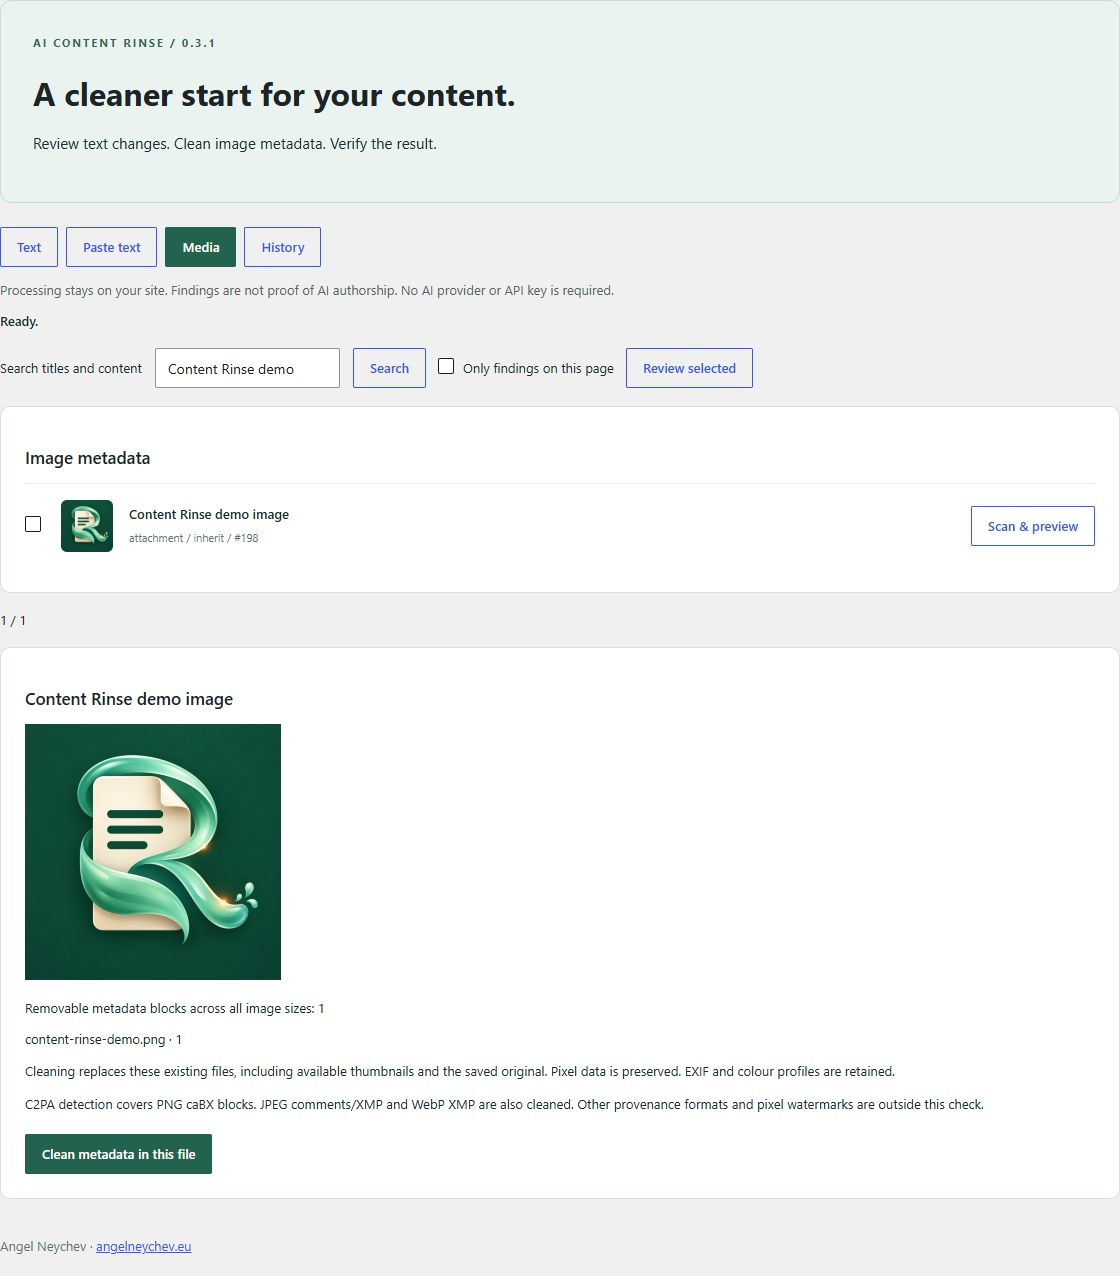
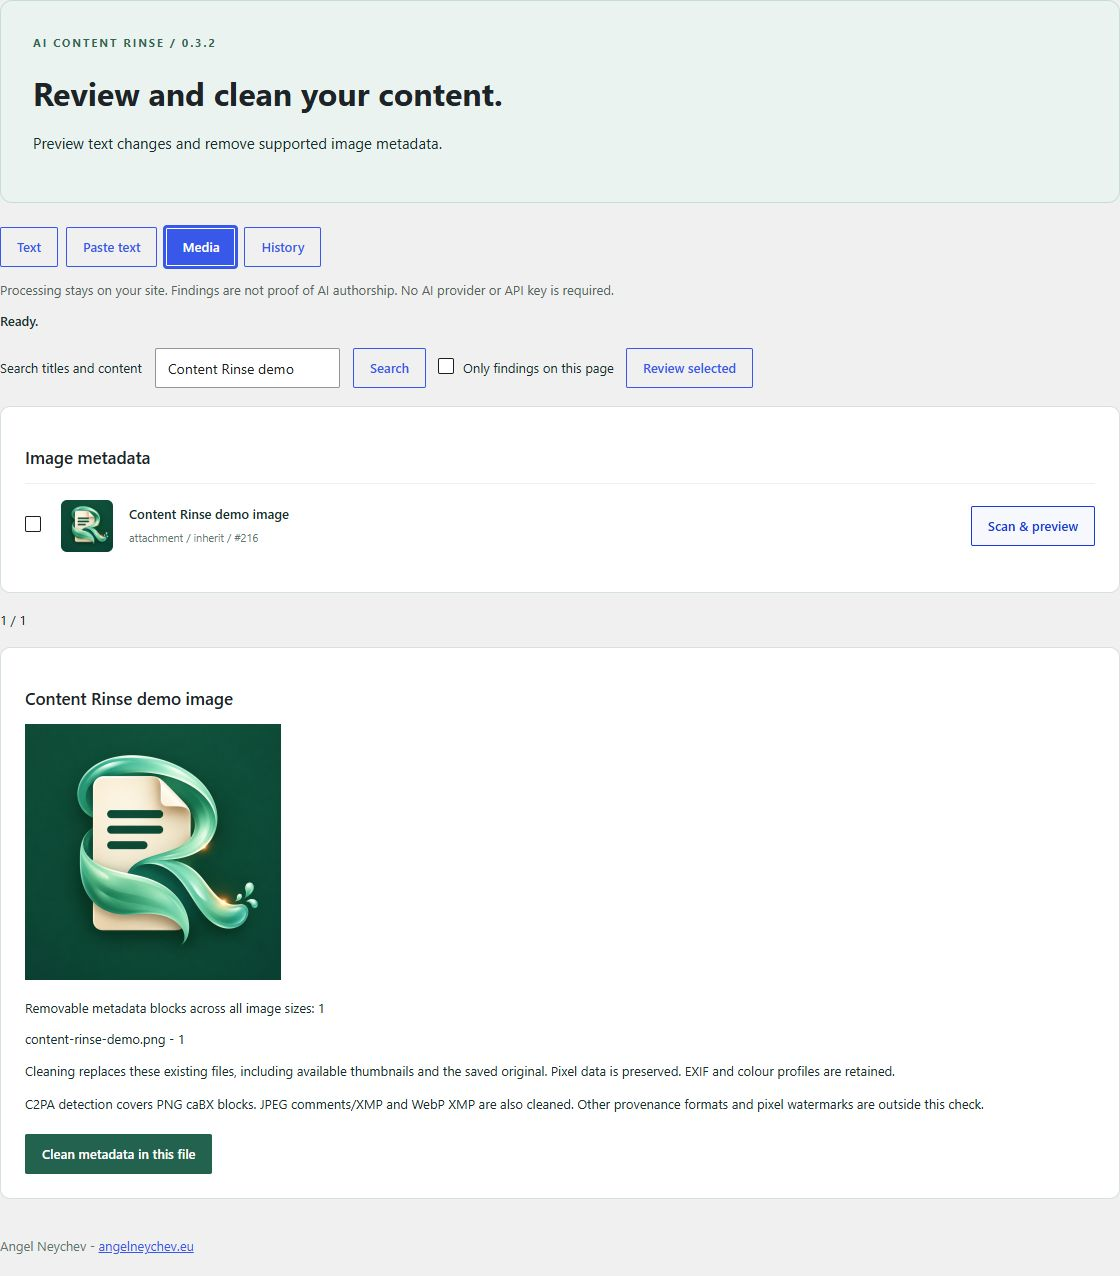
Use plain punctuation and consistent public copy in 0.3.2

Changed region(s): [[0.0312, 0.0611, 0.4688, 0.1223], [0.125, 0.1528, 0.2188, 0.2139], [0.0938, 0.9475, 0.1562, 1.0]]

diff --git a/assets/admin.js b/assets/admin.js
@@ -35,7 +35,7 @@
         busy = true;
         const disabled = Array.from(document.querySelectorAll('.aicr button, .aicr input, .aicr select'));
         disabled.forEach(node => { node.disabled = true; });
-        status.textContent = __('Working…', 'ai-content-rinse');
+        status.textContent = __('Working...', 'ai-content-rinse');
         try { await action(); status.textContent = __('Ready.', 'ai-content-rinse'); }
         catch (error) { status.textContent = error.message; }
         finally {
@@ -65,7 +65,7 @@
         for (const side of ['before', 'after']) {
             const column = el('div');
             const pre = el('pre');
-            column.append(el('h4', side === 'before' ? __('Before — changes in red', 'ai-content-rinse') : __('After — replacements in green', 'ai-content-rinse')));
+            column.append(el('h4', side === 'before' ? __('Before - changes in red', 'ai-content-rinse') : __('After - replacements in green', 'ai-content-rinse')));
             for (const segment of segments) {
                 if (!segment.label) { pre.append(document.createTextNode(segment[side])); continue; }
                 if (side === 'after' && !segment.after) continue;
@@ -73,7 +73,7 @@
                     ? (/[—–]/u.test(segment.before) ? segment.before : '⟦' + segment.label + '⟧')
                     : segment.after;
                 const mark = el('mark', visible, side === 'before' ? 'aicr-removed' : 'aicr-added');
-                mark.title = segment.label + ' · ' + (side === 'before' ? __('Removed during cleanup', 'ai-content-rinse') : __('Inserted during cleanup', 'ai-content-rinse'));
+                mark.title = segment.label + ' - ' + (side === 'before' ? __('Removed during cleanup', 'ai-content-rinse') : __('Inserted during cleanup', 'ai-content-rinse'));
                 pre.append(mark);
             }
             column.append(pre);
@@ -85,7 +85,7 @@
         const labels = { post_title: __('Title', 'ai-content-rinse'), post_content: __('Content', 'ai-content-rinse'), post_excerpt: __('Excerpt', 'ai-content-rinse') };
         for (const key of Object.keys(labels)) {
             const count = Object.values(result.counts[key]).reduce((a, b) => a + b, 0);
-            if (count) target.append(el('h3', labels[key] + ' · ' + count), comparison(result.segments[key]));
+            if (count) target.append(el('h3', labels[key] + ' - ' + count), comparison(result.segments[key]));
         }
         target.append(el('p', result.changed
             ? __('Only these text changes will be saved. A text recovery record is stored first.', 'ai-content-rinse')
@@ -94,13 +94,13 @@
     function mediaDetails(result, target) {
         target.append(el('p', __('Removable metadata blocks across all image sizes:', 'ai-content-rinse') + ' ' + result.removed));
         const files = el('ul');
-        for (const file of result.files) files.append(el('li', file.name + ' · ' + file.removed + (file.hints.length ? ' · ' + file.hints.join('; ') : '')));
+        for (const file of result.files) files.append(el('li', file.name + ' - ' + file.removed + (file.hints.length ? ' - ' + file.hints.join('; ') : '')));
         target.append(files, el('p', __('Cleaning replaces these existing files, including available thumbnails and the saved original. Pixel data is preserved. EXIF and colour profiles are retained.', 'ai-content-rinse')));
         target.append(el('p', __('C2PA detection covers PNG caBX blocks. JPEG comments/XMP and WebP XMP are also cleaned. Other provenance formats and pixel watermarks are outside this check.', 'ai-content-rinse')));
     }
     function mediaOutcome(saved, target) {
         target.append(el('h3', saved.ok ? __('Cleaned and verified.', 'ai-content-rinse') : __('Cleaning was not completed for every file.', 'ai-content-rinse')));
-        for (const file of saved.files) target.append(el('p', file.name + ' · ' + __('Removed:', 'ai-content-rinse') + ' ' + file.removed + ' · ' + __('Remaining supported blocks:', 'ai-content-rinse') + ' ' + file.remaining));
+        for (const file of saved.files) target.append(el('p', file.name + ' - ' + __('Removed:', 'ai-content-rinse') + ' ' + file.removed + ' - ' + __('Remaining supported blocks:', 'ai-content-rinse') + ' ' + file.remaining));
         for (const error of saved.errors) target.append(el('p', error.name + ': ' + error.message, 'aicr-error'));
         target.append(el('p', __('Remaining supported blocks across all files:', 'ai-content-rinse') + ' ' + (saved.remaining === null ? __('Could not verify every file.', 'ai-content-rinse') : saved.remaining)));
         if (saved.provenance.detected) target.append(el('p', saved.provenance.hints.join('; ')));
@@ -187,7 +187,7 @@
         const input = el('textarea'); input.id = 'aicr-paste'; input.rows = 10;
         const formatLabel = el('label', __('Input format', 'ai-content-rinse')); formatLabel.htmlFor = 'aicr-format';
         const format = el('select'); format.id = 'aicr-format';
-        for (const [value, title] of [['plain', __('Plain text', 'ai-content-rinse')], ['html', __('WordPress / HTML — preserve markup and code', 'ai-content-rinse')]]) {
+        for (const [value, title] of [['plain', __('Plain text', 'ai-content-rinse')], ['html', __('WordPress / HTML - preserve markup and code', 'ai-content-rinse')]]) {
             const option = el('option', title); option.value = value; format.append(option);
         }
         list.append(label, input, formatLabel, format, button(__('Preview cleanup', 'ai-content-rinse'), async () => {
@@ -225,7 +225,7 @@
         pager.replaceChildren();
         if (mode === 'paste') { pasteWorkspace(); return; }
         renderControls();
-        list.replaceChildren(el('p', __('Loading…', 'ai-content-rinse')));
+        list.replaceChildren(el('p', __('Loading...', 'ai-content-rinse')));
         const data = await api('items?mode=' + mode + '&page=' + page + '&search=' + encodeURIComponent(search));
         if (stamp !== generation) return;
         list.replaceChildren(el('h2', mode === 'media' ? __('Image metadata', 'ai-content-rinse') : mode === 'history' ? __('Text recovery copies', 'ai-content-rinse') : __('Posts & pages', 'ai-content-rinse')));

diff --git a/ai-content-rinse.php b/ai-content-rinse.php
@@ -1,8 +1,8 @@
 <?php
 /**
- * Plugin Name: AI Content Rinse — Text & Metadata Cleaner
+ * Plugin Name: AI Content Rinse - Text & Metadata Cleaner
  * Description: Review text cleanup and remove supported image metadata in place. Preview exact changes and verify cleaned files.
- * Version: 0.3.1
+ * Version: 0.3.2
  * Requires at least: 6.5
  * Requires PHP: 8.1
  * Author: Angel Neychev
@@ -32,8 +32,8 @@ function aicr_assets( $hook ) {
 	if ( 'tools_page_ai-content-rinse' !== $hook ) {
 		return;
 	}
-	wp_enqueue_style( 'aicr-admin', plugins_url( 'assets/admin.css', __FILE__ ), array(), '0.3.1' );
-	wp_enqueue_script( 'aicr-admin', plugins_url( 'assets/admin.js', __FILE__ ), array( 'wp-i18n' ), '0.3.1', true );
+	wp_enqueue_style( 'aicr-admin', plugins_url( 'assets/admin.css', __FILE__ ), array(), '0.3.2' );
+	wp_enqueue_script( 'aicr-admin', plugins_url( 'assets/admin.js', __FILE__ ), array( 'wp-i18n' ), '0.3.2', true );
 	wp_set_script_translations( 'aicr-admin', 'ai-content-rinse' );
 	// Use the query-string REST transport so the workspace also works when
 	// Apache URL rewriting is unavailable on a local XAMPP installation.
@@ -45,8 +45,8 @@ function aicr_assets( $hook ) {
 function aicr_page() {
 	?>
 	<div class="wrap aicr">
-		<header><span class="aicr-eyebrow">AI CONTENT RINSE / 0.3.1</span><h1><?php esc_html_e( 'A cleaner start for your content.', 'ai-content-rinse' ); ?></h1>
-		<p><?php esc_html_e( 'Review text changes. Clean image metadata. Verify the result.', 'ai-content-rinse' ); ?></p></header>
+		<header><span class="aicr-eyebrow">AI CONTENT RINSE / 0.3.2</span><h1><?php esc_html_e( 'Review and clean your content.', 'ai-content-rinse' ); ?></h1>
+		<p><?php esc_html_e( 'Preview text changes and remove supported image metadata.', 'ai-content-rinse' ); ?></p></header>
 		<nav aria-label="<?php esc_attr_e( 'Workspace', 'ai-content-rinse' ); ?>">
 			<button class="button button-primary" data-tab="text"><?php esc_html_e( 'Text', 'ai-content-rinse' ); ?></button>
 			<button class="button" data-tab="paste"><?php esc_html_e( 'Paste text', 'ai-content-rinse' ); ?></button>
@@ -59,7 +59,7 @@ function aicr_page() {
 		<section id="aicr-list"></section>
 		<div id="aicr-pager"></div>
 		<section id="aicr-preview" tabindex="-1" hidden></section>
-		<footer>Angel Neychev · <a href="https://angelneychev.eu">angelneychev.eu</a></footer>
+		<footer>Angel Neychev - <a href="https://angelneychev.eu">angelneychev.eu</a></footer>
 	</div>
 	<?php
 }

diff --git a/includes.php b/includes.php
@@ -50,32 +50,32 @@ function aicr_clean_text( $text, $plain = false ) {
 		"\u{200B}" => 'U+200B',
 		"\u{200E}" => 'U+200E',
 		"\u{200F}" => 'U+200F',
-		"\u{202A}" => 'U+202A–U+202E',
-		"\u{202B}" => 'U+202A–U+202E',
-		"\u{202C}" => 'U+202A–U+202E',
-		"\u{202D}" => 'U+202A–U+202E',
-		"\u{202E}" => 'U+202A–U+202E',
-		"\u{2060}" => 'U+2060–U+206F',
-		"\u{2061}" => 'U+2060–U+206F',
-		"\u{2062}" => 'U+2060–U+206F',
-		"\u{2063}" => 'U+2060–U+206F',
-		"\u{2064}" => 'U+2060–U+206F',
-		"\u{2065}" => 'U+2060–U+206F',
-		"\u{2066}" => 'U+2060–U+206F',
-		"\u{2067}" => 'U+2060–U+206F',
-		"\u{2068}" => 'U+2060–U+206F',
-		"\u{2069}" => 'U+2060–U+206F',
-		"\u{206A}" => 'U+2060–U+206F',
-		"\u{206B}" => 'U+2060–U+206F',
-		"\u{206C}" => 'U+2060–U+206F',
-		"\u{206D}" => 'U+2060–U+206F',
-		"\u{206E}" => 'U+2060–U+206F',
-		"\u{206F}" => 'U+2060–U+206F',
+		"\u{202A}" => 'U+202A-U+202E',
+		"\u{202B}" => 'U+202A-U+202E',
+		"\u{202C}" => 'U+202A-U+202E',
+		"\u{202D}" => 'U+202A-U+202E',
+		"\u{202E}" => 'U+202A-U+202E',
+		"\u{2060}" => 'U+2060-U+206F',
+		"\u{2061}" => 'U+2060-U+206F',
+		"\u{2062}" => 'U+2060-U+206F',
+		"\u{2063}" => 'U+2060-U+206F',
+		"\u{2064}" => 'U+2060-U+206F',
+		"\u{2065}" => 'U+2060-U+206F',
+		"\u{2066}" => 'U+2060-U+206F',
+		"\u{2067}" => 'U+2060-U+206F',
+		"\u{2068}" => 'U+2060-U+206F',
+		"\u{2069}" => 'U+2060-U+206F',
+		"\u{206A}" => 'U+2060-U+206F',
+		"\u{206B}" => 'U+2060-U+206F',
+		"\u{206C}" => 'U+2060-U+206F',
+		"\u{206D}" => 'U+2060-U+206F',
+		"\u{206E}" => 'U+2060-U+206F',
+		"\u{206F}" => 'U+2060-U+206F',
 		"\u{3164}" => 'U+3164',
 		"\u{FEFF}" => 'U+FEFF',
-		"\u{FFF9}" => 'U+FFF9–U+FFFB',
-		"\u{FFFA}" => 'U+FFF9–U+FFFB',
-		"\u{FFFB}" => 'U+FFF9–U+FFFB',
+		"\u{FFF9}" => 'U+FFF9-U+FFFB',
+		"\u{FFFA}" => 'U+FFF9-U+FFFB',
+		"\u{FFFB}" => 'U+FFF9-U+FFFB',
 		"\u{FFA0}" => 'U+FFA0',
 	);
 	$pattern = '/[' . implode( '', array_keys( $map ) ) . '\x{E0000}-\x{E0FFF}\x{FFF0}-\x{FFF8}]/u';

diff --git a/tools/check-release.php b/tools/check-release.php
@@ -3,6 +3,13 @@ if (PHP_SAPI !== 'cli') { http_response_code(403); exit; }
 $root = dirname(__DIR__);
 $header = file_get_contents($root . '/ai-content-rinse.php');
 $readme = file_get_contents($root . '/readme.txt');
+$js = file_get_contents($root . '/assets/admin.js');
+// Check authored copy, while allowing deliberate Unicode detection rules and examples.
+preg_match_all('/\'(?:\\\\.|[^\'\\\\])*\'/s', $js, $copyMatches);
+$copy = $header . $readme . file_get_contents($root . '/README.md') . implode("\n", $copyMatches[0]);
+if (preg_match('/[\x{00A0}\x{00AD}\x{00B7}\x{2000}-\x{200F}\x{2010}-\x{201F}\x{2026}\x{2028}-\x{202F}\x{205F}\x{2060}-\x{206F}\x{3000}\x{FEFF}]/u', $copy)) {
+    throw new RuntimeException('Authored copy must use ordinary keyboard punctuation and spaces. See WRITING.md.');
+}
 preg_match('/^\s*\* Version:\s*(\d+\.\d+\.\d+)\s*$/m', $header, $versionMatch);
 preg_match('/^Stable tag:\s*(\d+\.\d+\.\d+)\s*$/m', $readme, $stableMatch);
 $version = $versionMatch[1] ?? '';

diff --git a/WRITING.md b/WRITING.md
@@ -1,0 +1,15 @@
+# Writing conventions
+
+Apply these rules to assistant replies, public descriptions, release notes, documentation, and interface labels. The preference concerns the whole writing style, not just replacing one dash.
+
+- Use ordinary keyboard punctuation: hyphens, straight quotation marks, and three periods when an ellipsis is actually needed. Use ordinary spaces, with no invisible characters or decorative Unicode separators.
+- Avoid decorative emoji, ornamental headings, excessive bold, stock introductions, and repetitive concluding summaries. Use lists when the content actually benefits from them.
+- Write direct, natural sentences. Avoid canned marketing language, inflated claims, forced contrasts, and repetitive sentence patterns. Explain concrete behavior in the user's language.
+- Before sending or publishing, first review the meaning and wording, then simplify the structure, normalize punctuation and whitespace, and read the final rendered result. Mechanical character checks support this review but do not replace it.
+- Apply the same review to artwork captions, release descriptions, and text visible in screenshots. Do not leave older public assets with inconsistent interface wording when releasing updated copy.
+
+Preserve original characters when they are deliberate cleaning examples, test fixtures, detection rules, quoted source material, or third-party license text. Never change syntax such as HTML comments to satisfy a prose convention.
+
+These writing preferences do not by themselves authorize changes to the plugin's content-cleaning rules. Do not silently remove punctuation, emoji, or other visible characters from users' stored content merely to apply the author's writing style.
+
+Apply this convention to public screenshots by capturing the updated real interface. Keep Angel Neychev as the plugin author.

diff --git a/ARTWORK.md b/ARTWORK.md
@@ -14,7 +14,7 @@ The `.wordpress-org` directory contains the public listing artwork:
 | screenshot-2.png | 1120 × 649 | Preserved HTML and code |
 | screenshot-3.png | 1120 × 1276 | Image metadata preview |
 
-Screenshots are captures of the actual version 0.3.1 interface, cropped to the plugin content area. They use demonstration text and an image containing an explicitly added sample PNG text chunk. No results were fabricated or painted into the interface. The temporary media item was removed after capture.
+Screenshots are captures of the actual version 0.3.2 interface, cropped to the plugin content area. They use demonstration text and an image containing an explicitly added sample PNG text chunk. No results were fabricated or painted into the interface. The temporary media item was removed after capture.
 
 Artwork uses an ivory document, a mint water ribbon and a forest green background. Banners identify Angel Neychev as the author. No third-party brand marks are included. Artwork is distributed under the repository's GPL-2.0-or-later license.
 

diff --git a/README.md b/README.md
@@ -20,7 +20,7 @@ Review copied text character by character, clean supported image metadata in pla
 
 Requires WordPress 6.5+ and PHP 8.1+. Tested locally with WordPress 7.1 and PHP 8.3.
 
-Build the installable archive with `php tools/package.php`, then upload `.build/ai-content-rinse-0.3.1.zip` through Plugins > Add New > Upload Plugin. Open Tools > AI Content Rinse after activation.
+Build the installable archive with `php tools/package.php`, then upload `.build/ai-content-rinse-0.3.2.zip` through Plugins > Add New > Upload Plugin. Open Tools > AI Content Rinse after activation.
 
 A GitHub source download is a development archive. The ZIP produced by the packaging script is the WordPress installation package.
 
@@ -51,4 +51,4 @@ See [RELEASING.md](RELEASING.md) for the initial WordPress.org review and subseq
 
 Copyright 2026 Angel Neychev. GPL-2.0-or-later; see [LICENSE.txt](LICENSE.txt).
 
-Contact: angel.neychev@gmail.com · https://angelneychev.eu
+Contact: angel.neychev@gmail.com - https://angelneychev.eu
